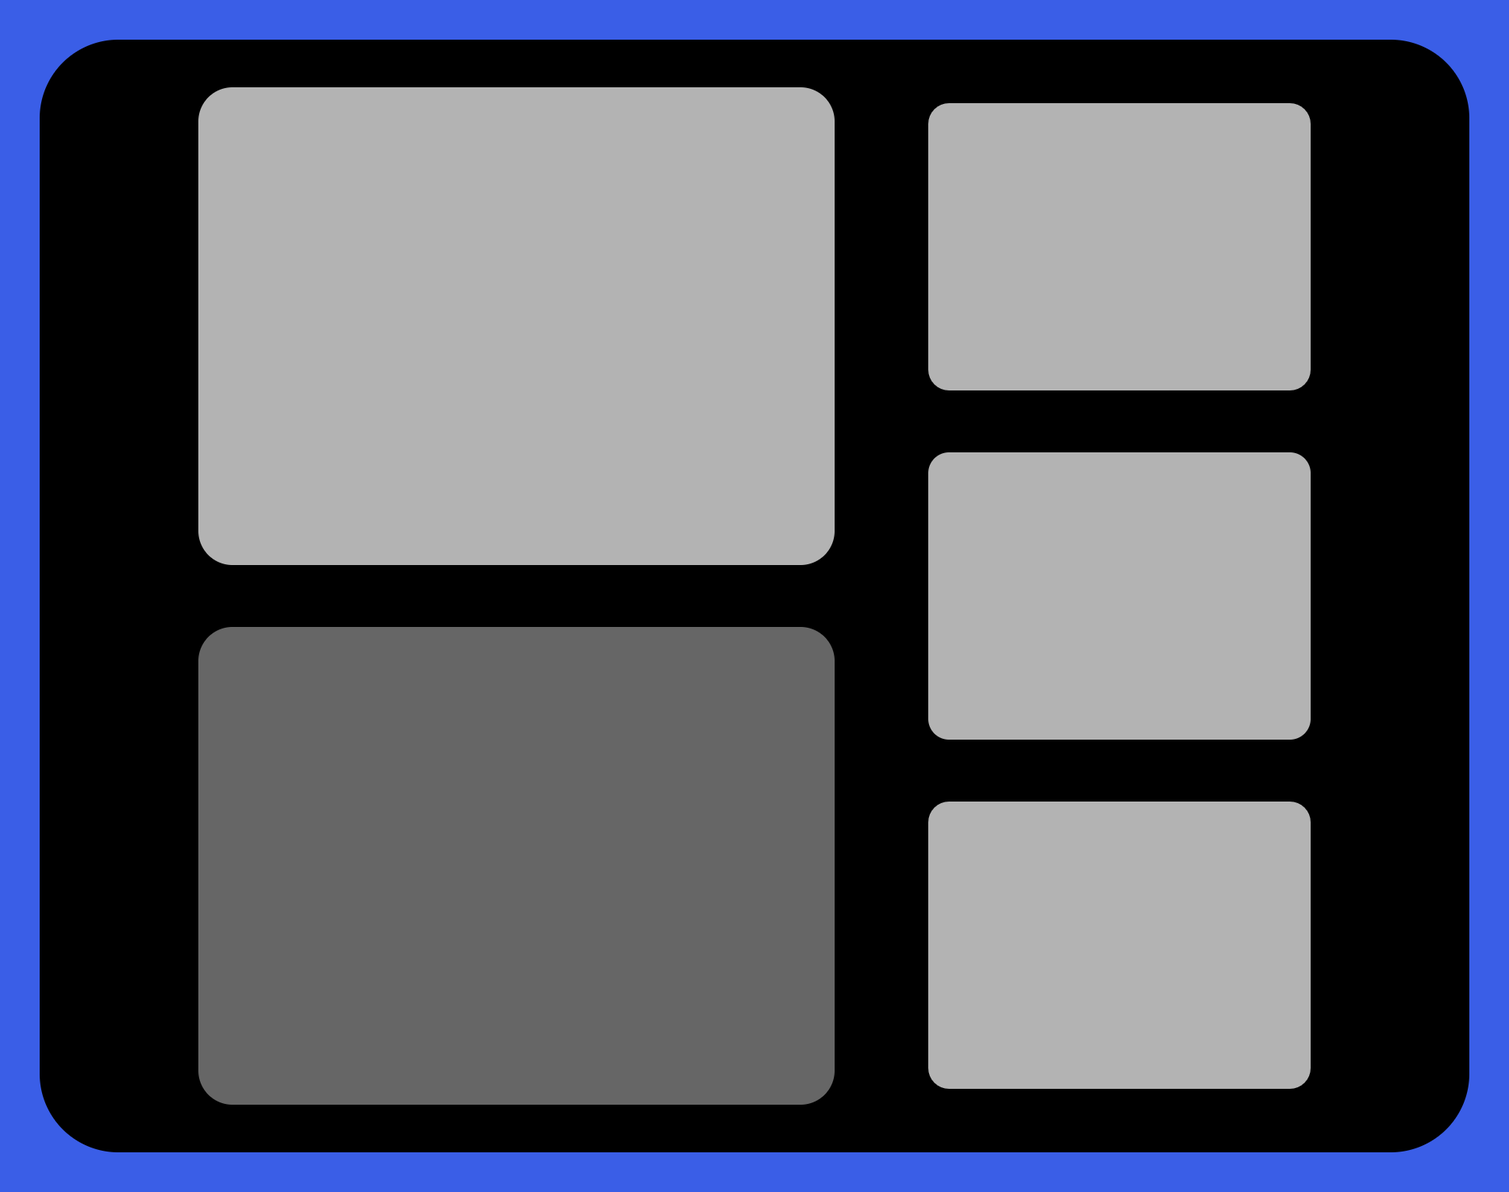
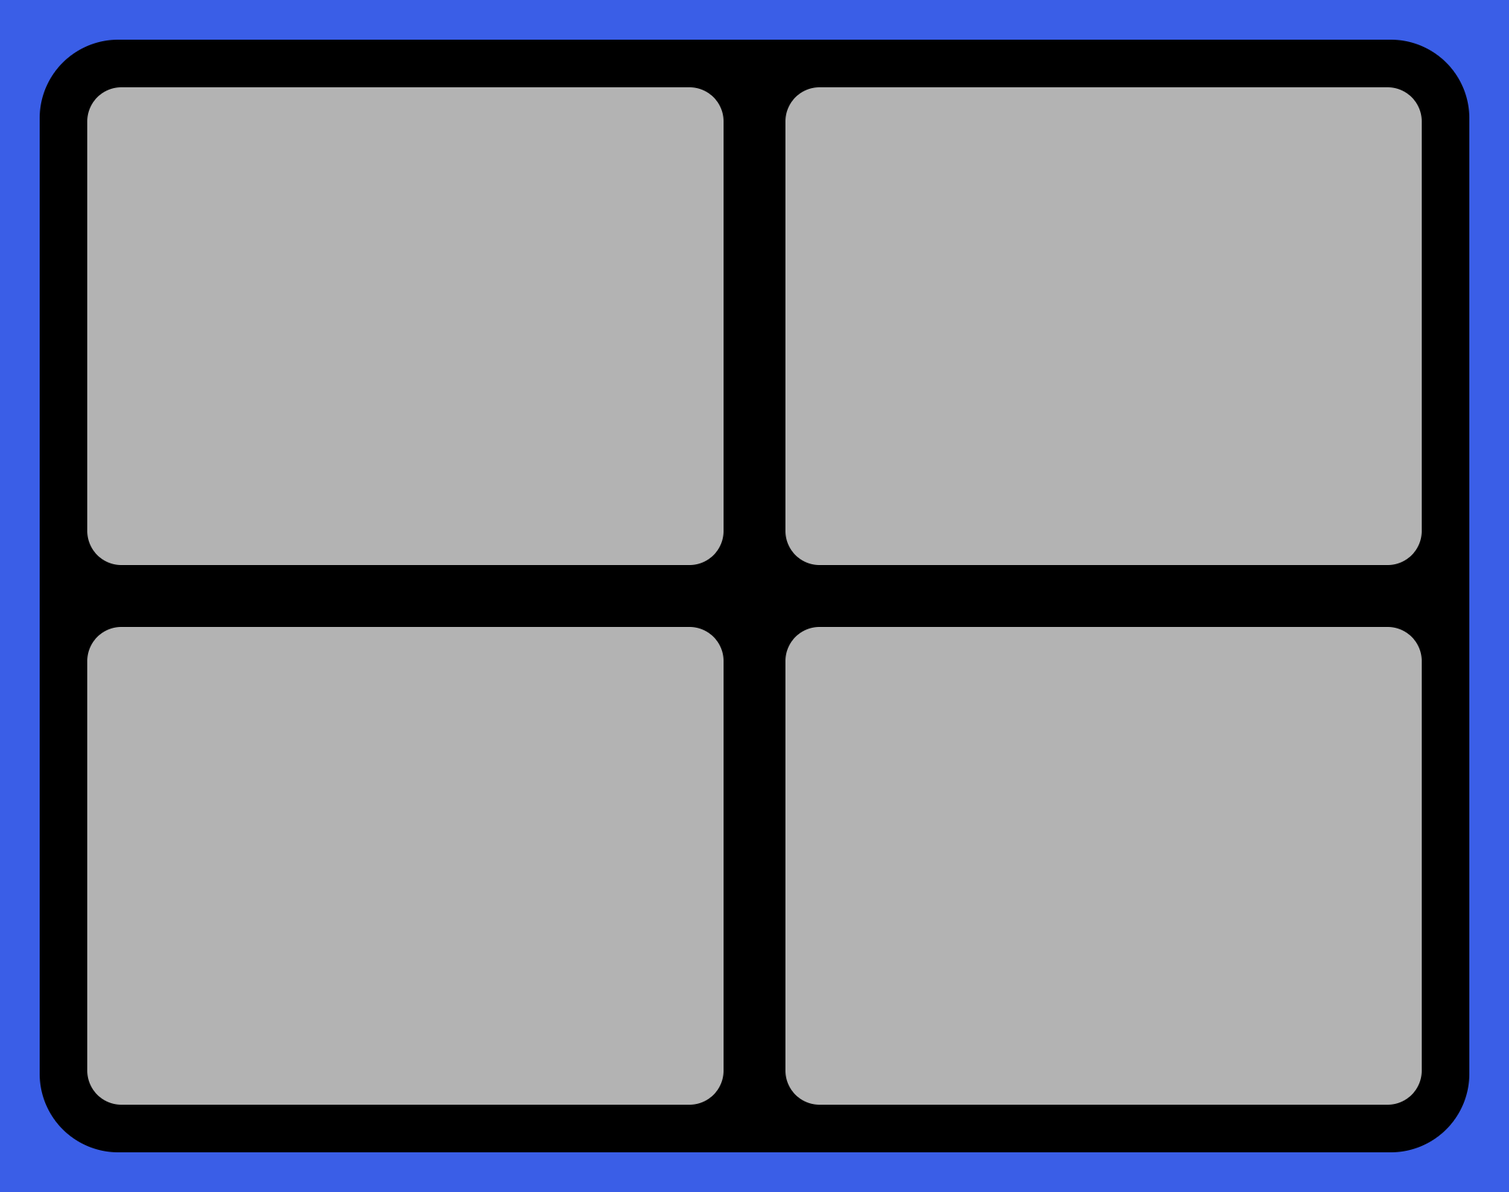
ウィンドウ配置を再検討・修正

diff --git a/MyStream.html b/MyStream.html
@@ -116,21 +116,15 @@
       <img src="select/03A.png" class="select" id="select03A" title="03A" onclick="selectL('03A')">
       <img src="select/03B.png" class="select" id="select03B" title="03B" onclick="selectL('03B')"><br>
       <img src="select/04A.png" class="select" id="select04A" title="04A" onclick="selectL('04A')">
-      <img src="select/04B.png" class="select" id="select04B" title="04B" onclick="selectL('04B')">
-      <img src="select/04C.png" class="select" id="select04C" title="04C" onclick="selectL('04C')"><br>
+      <img src="select/04B.png" class="select" id="select04B" title="04B" onclick="selectL('04B')"><br>
       <img src="select/05A.png" class="select" id="select05A" title="05A" onclick="selectL('05A')">
-      <img src="select/05B.png" class="select" id="select05B" title="05B" onclick="selectL('05B')">
-      <img src="select/05C.png" class="select" id="select05C" title="05C" onclick="selectL('05C')"><br>
-      <img src="select/06A.png" class="select" id="select06A" title="06A" onclick="selectL('06A')">
-      <img src="select/06B.png" class="select" id="select06B" title="06B" onclick="selectL('06B')">
-      <img src="select/06C.png" class="select" id="select06C" title="06C" onclick="selectL('06C')"><br>
-      <img src="select/07A.png" class="select" id="select07A" title="07A" onclick="selectL('07A')"><br>
-      <img src="select/08A.png" class="select" id="select08A" title="08A" onclick="selectL('08A')">
-      <img src="select/08B.png" class="select" id="select08B" title="08B" onclick="selectL('08B')"><br>
+      <img src="images/streamer01.jpg" class="select" id="select05B" title="05B" onclick="selectL('05B')"><br>
+      <img src="images/streamer01.jpg" class="select" id="select06A" title="06A" onclick="selectL('06A')"><br>
+      <img src="images/streamer01.jpg" class="select" id="select07A" title="07A" onclick="selectL('07A')"><br>
+      <img src="select/08A.png" class="select" id="select08A" title="08A" onclick="selectL('08A')"><br>
       <img src="select/09A.png" class="select" id="select09A" title="09A" onclick="selectL('09A')">
       <img src="select/09B.png" class="select" id="select09B" title="09B" onclick="selectL('09B')"><br>
       <img src="select/10A.png" class="select" id="select10A" title="10A" onclick="selectL('10A')"><br>
-      <img src="select/12A.png" class="select" id="select12A" title="12A" onclick="selectL('12A')"><br>
       <img src="select/16A.png" class="select" id="select16A" title="16A" onclick="selectL('16A')"><br>
       <button type="button" class="Check ButtonL" onclick="CheckStream()">配信チェック</button><br>
       <button type="button" class="Slide ButtonL" onclick="SlideWindow()">空窓スライド</button><br>
@@ -148,7 +142,6 @@
         .then(response => response.json())
         .then(jsonData => {
           channelData = jsonData; // ローカル変数にデータを格納
-          console.log(channelData)
           const iconArea = document.querySelector('.iconArea');
           channelData.channels.forEach(channel => {
             if (channel.No >= 1 && channel.No <= 38) {
@@ -160,7 +153,7 @@
               img.src = channel.Icon;
               img.className = 'icon';
               img.id = `icon${channel.No}`;
-              img.setAttribute('onclick', `openLink('${channel.No}')`);
+              img.setAttribute('onclick', `openLink('icon${channel.No}')`);
 
               div.appendChild(img);
               iconArea.appendChild(div);
@@ -256,259 +249,71 @@
       showAlert('更新情報', '特になし', 'noClose');
     }
     function selectL(Lay) {
-
       var current = new URL(window.location);
       current.searchParams.set("layout", Lay);
       window.history.replaceState('', '', current);
 
-      //全ての窓の余計なクラスを削除
       const all = ["w01", "w02", "w03", "w04", "w05", "w06", "w07", "w08", "w09", "w10", "w11", "w12", "w13", "w14", "w15", "w16"];
-      all.forEach((wNo, index) => {
-        if (document.getElementById(wNo).classList.contains('Non-Display') == true) {
-          document.getElementById(wNo).className = "story cleared";
-        } else if (document.getElementById(wNo).classList.contains('cleared') == true) {
-          document.getElementById(wNo).className = "story cleared";
+      all.forEach(wNo => {
+        const element = document.getElementById(wNo);
+        if (element.classList.contains('Non-Display') || element.classList.contains('cleared')) {
+          element.className = "story cleared";
         } else {
-          document.getElementById(wNo).className = "story";
+          element.className = "story";
         }
-        document.getElementById("ReplaceArea").className = "grid6R7C";
       });
 
-      let arr = [];
-      let now = [];
+      document.getElementById("ReplaceArea").className = "grid6R7C";
 
-      switch (Lay) {
-        case "01A"://6R7C_ok
-          document.getElementById("w01").classList.add("WE01", "VSE");
-          arr = ["w02", "w03", "w04", "w05", "w06", "w07", "w08", "w09", "w10", "w11", "w12", "w13", "w14", "w15", "w16"];
-          break;
-        case "01B"://6R7C_ok
-          document.getElementById("w01").classList.add("WD01C", "VSD", "CSD");
-          arr = ["w02", "w03", "w04", "w05", "w06", "w07", "w08", "w09", "w10", "w11", "w12", "w13", "w14", "w15", "w16"];
-          break;
-        case "02A"://6R7C_ok
+      const layoutConfig = {
+        "01A": { addClasses: [["w01", ["WE01", "VSE"]]], hideElements: ["w02", "w03", "w04", "w05", "w06", "w07", "w08", "w09", "w10", "w11", "w12", "w13", "w14", "w15", "w16"] },
+        "01B": { addClasses: [["w01", ["WD01C", "VSD", "CSD"]]], hideElements: ["w02", "w03", "w04", "w05", "w06", "w07", "w08", "w09", "w10", "w11", "w12", "w13", "w14", "w15", "w16"] },
+        "02A": { addClasses: [["w01", ["WC01C", "VSC", "CSC"]], ["w02", ["WC03C", "VSC", "CSC"]]], hideElements: ["w03", "w04", "w05", "w06", "w07", "w08", "w09", "w10", "w11", "w12", "w13", "w14", "w15", "w16"] },
+        "03A": { addClasses: [["w01", ["WB01C", "VSB", "CSB"]], ["w02", ["WB04C", "VSB", "CSB"]], ["w03", ["WB07C", "VSB", "CSB"]]], hideElements: ["w04", "w05", "w06", "w07", "w08", "w09", "w10", "w11", "w12", "w13", "w14", "w15", "w16"] },
+        "03B": { addClasses: [["w01", ["WC01C", "VSC", "CSC"]], ["w02", ["WC03", "VSC"]], ["w03", ["WC04", "VSC"]]], hideElements: ["w04", "w05", "w06", "w07", "w08", "w09", "w10", "w11", "w12", "w13", "w14", "w15", "w16"] },
+        "04A": { addClasses: [["w01", ["WA01C3", "VSA", "CSD"]], ["w02", ["WA05C3", "VSA", "CSD"]], ["w03", ["WA09C3", "VSA", "CSD"]], ["w04", ["WA13C3", "VSA", "CSD"]]], hideElements: ["w05", "w06", "w07", "w08", "w09", "w10", "w11", "w12", "w13", "w14", "w15", "w16"] },
+        "04B": { addClasses: [["w01", ["WC01", "VSC"]], ["w02", ["WC02", "VSC"]], ["w03", ["WC03", "VSC"]], ["w04", ["WC04", "VSC"]]], hideElements: ["w05", "w06", "w07", "w08", "w09", "w10", "w11", "w12", "w13", "w14", "w15", "w16"] },
+        "05A": { addClasses: [["w01", ["WB01C", "VSB", "CSB"]], ["w02", ["WB04C", "VSB", "CSB"]], ["w03", ["WB07", "VSB"]], ["w04", ["WB08", "VSB"]], ["w05", ["WB09", "VSB"]]], hideElements: ["w06", "w07", "w08", "w09", "w10", "w11", "w12", "w13", "w14", "w15", "w16"] },
+        "05B": { addClasses: [["w01", ["WC01C", "VSC", "CSC"]], ["w02", ["WA09C1", "VSA", "CSA"]], ["w03", ["WA11C1", "VSA", "CSA"]], ["w04", ["WA13C1", "VSA", "CSA"]], ["w05", ["WA15C1", "VSA", "CSA"]]], hideElements: ["w06", "w07", "w08", "w09", "w10", "w11", "w12", "w13", "w14", "w15", "w16"] },
+        "06A": { addClasses: [["w01", ["WC01", "VSC"]], ["w02", ["WC02", "VSC"]], ["w03", ["WA09C1", "VSA", "CSA"]], ["w04", ["WA11C1", "VSA", "CSA"]], ["w05", ["WA13C1", "VSA", "CSA"]], ["w06", ["WA15C1", "VSA", "CSA"]]], hideElements: ["w07", "w08", "w09", "w10", "w11", "w12", "w13", "w14", "w15", "w16"] },
+        "07A": { addClasses: [["w01", ["WB01C", "VSB", "CSB"]], ["w02", ["WB04", "VSB"]], ["w03", ["WB05", "VSB"]], ["w04", ["WB06", "VSB"]], ["w05", ["WB07", "VSB"]], ["w06", ["WB08", "VSB"]], ["w07", ["WB09", "VSB"]]], hideElements: ["w08", "w09", "w10", "w11", "w12", "w13", "w14", "w15", "w16"] },
+        "08A": { addClasses: [["w01", ["WA01C1", "VSA", "CSA"]], ["w02", ["WA03C1", "VSA", "CSA"]], ["w03", ["WA05C1", "VSA", "CSA"]], ["w04", ["WA07C1", "VSA", "CSA"]], ["w05", ["WA09C1", "VSA", "CSA"]], ["w06", ["WA11C1", "VSA", "CSA"]], ["w07", ["WA13C1", "VSA", "CSA"]], ["w08", ["WA15C1", "VSA", "CSA"]]], hideElements: ["w09", "w10", "w11", "w12", "w13", "w14", "w15", "w16"] },
+        "09A": { addClasses: [["w01", ["WC01C", "VSC", "CSC"]], ["w02", ["WA09", "VSA"]], ["w03", ["WA10", "VSA"]], ["w04", ["WA11", "VSA"]], ["w05", ["WA12", "VSA"]], ["w06", ["WA13", "VSA"]], ["w07", ["WA14", "VSA"]], ["w08", ["WA15", "VSA"]], ["w09", ["WA16", "VSA"]]], hideElements: ["w10", "w11", "w12", "w13", "w14", "w15", "w16"] },
+        "09B": { addClasses: [["w01", ["WB01", "VSB"]], ["w02", ["WB02", "VSB"]], ["w03", ["WB03", "VSB"]], ["w04", ["WB04", "VSB"]], ["w05", ["WB05", "VSB"]], ["w06", ["WB06", "VSB"]], ["w07", ["WB07", "VSB"]], ["w08", ["WB08", "VSB"]], ["w09", ["WB09", "VSB"]]], hideElements: ["w10", "w11", "w12", "w13", "w14", "w15", "w16"] },
+        "10A": { addClasses: [["w01", ["WC01", "VSC"]], ["w02", ["WC02", "VSC"]], ["w03", ["WA09", "VSA"]], ["w04", ["WA10", "VSA"]], ["w05", ["WA11", "VSA"]], ["w06", ["WA12", "VSA"]], ["w07", ["WA13", "VSA"]], ["w08", ["WA14", "VSA"]], ["w09", ["WA15", "VSA"]], ["w10", ["WA16", "VSA"]]], hideElements: ["w11", "w12", "w13", "w14", "w15", "w16"] },
+        "16A": { addClasses: all.map(wNo => [wNo, ["WA" + wNo.slice(-2), "VSA"]]), hideElements: [] }
+      };
 
-          document.getElementById("w01").classList.add("WC01C", "VSC", "CSC");
-          document.getElementById("w02").classList.add("WC03C", "VSC", "CSC");
-          arr = ["w03", "w04", "w05", "w06", "w07", "w08", "w09", "w10", "w11", "w12", "w13", "w14", "w15", "w16"];
-          break;
-        case "03A"://6R7C_ok
+      const config = layoutConfig[Lay] || { addClasses: [], hideElements: [] };
 
-          document.getElementById("w01").classList.add("WB01C", "VSB", "CSB");
-          document.getElementById("w02").classList.add("WB04C", "VSB", "CSB");
-          document.getElementById("w03").classList.add("WB07C", "VSB", "CSB");
-          arr = ["w04", "w05", "w06", "w07", "w08", "w09", "w10", "w11", "w12", "w13", "w14", "w15", "w16"];
-          break;
-        case "03B"://6R7C_ok
+      config.addClasses.forEach(([wNo, classes]) => {
+        document.getElementById(wNo).classList.add(...classes);
+      });
 
-          document.getElementById("w01").classList.add("WC01C", "VSC", "CSC");
-          document.getElementById("w02").classList.add("WC03", "VSC");
-          document.getElementById("w03").classList.add("WC04", "VSC");
-          arr = ["w04", "w05", "w06", "w07", "w08", "w09", "w10", "w11", "w12", "w13", "w14", "w15", "w16"];
-          break;
-        case "04A"://6R7C_ok
+      config.hideElements.forEach(wNo => {
+        const element = document.getElementById(wNo);
+        element.classList.remove("cleared");
+        element.classList.add("Non-Display");
+        const video = element.getElementsByClassName("video")[0];
+        video.src = "";
+        video.classList.add("no-content");
+        const chats = element.getElementsByClassName("chats")[0];
+        if (chats) {
+          chats.src = "";
+          chats.classList.add("no-content");
+        }
 
-          document.getElementById("w01").classList.add("WA01C3", "VSA", "CSD");
-          document.getElementById("w02").classList.add("WA05C3", "VSA", "CSD");
-          document.getElementById("w03").classList.add("WA09C3", "VSA", "CSD");
-          document.getElementById("w04").classList.add("WA13C3", "VSA", "CSD");
-          arr = ["w05", "w06", "w07", "w08", "w09", "w10", "w11", "w12", "w13", "w14", "w15", "w16"];
-          break;
-        case "04B"://6R7C_ok
-
-          document.getElementById("w01").classList.add("WC01C", "VSC", "CSC");
-          document.getElementById("w02").classList.add("WB07H", "VSB");
-          document.getElementById("w03").classList.add("WB08H", "VSB");
-          document.getElementById("w04").classList.add("WB09H", "VSB");
-          arr = ["w05", "w06", "w07", "w08", "w09", "w10", "w11", "w12", "w13", "w14", "w15", "w16"];
-          break;
-        case "04C"://6R7C_ok
-
-          document.getElementById("w01").classList.add("WC01", "VSC");
-          document.getElementById("w02").classList.add("WC02", "VSC");
-          document.getElementById("w03").classList.add("WC03", "VSC");
-          document.getElementById("w04").classList.add("WC04", "VSC");
-          arr = ["w05", "w06", "w07", "w08", "w09", "w10", "w11", "w12", "w13", "w14", "w15", "w16"];
-          break;
-        case "05A"://6R7C_ok
-
-          document.getElementById("w01").classList.add("WC01C", "VSC", "CSC");
-          document.getElementById("w02").classList.add("WA10", "VSA");
-          document.getElementById("w03").classList.add("WA11", "VSA");
-          document.getElementById("w04").classList.add("WA14", "VSA");
-          document.getElementById("w05").classList.add("WA15", "VSA");
-          arr = ["w06", "w07", "w08", "w09", "w10", "w11", "w12", "w13", "w14", "w15", "w16"];
-          break;
-        case "05B"://6R7C_ok
-
-          document.getElementById("w01").classList.add("WB01C", "VSB", "CSB");
-          document.getElementById("w02").classList.add("WB04C", "VSB", "CSB");
-          document.getElementById("w03").classList.add("WB07", "VSB");
-          document.getElementById("w04").classList.add("WB08", "VSB");
-          document.getElementById("w05").classList.add("WB09", "VSB");
-          arr = ["w06", "w07", "w08", "w09", "w10", "w11", "w12", "w13", "w14", "w15", "w16"];
-          break;
-        case "05C"://6R7C_ok
-
-          document.getElementById("w01").classList.add("WC01", "VSC");
-          document.getElementById("w02").classList.add("WC02", "VSC");
-          document.getElementById("w03").classList.add("WB07H", "VSB");
-          document.getElementById("w04").classList.add("WB08H", "VSB");
-          document.getElementById("w05").classList.add("WB09H", "VSB");
-          arr = ["w06", "w07", "w08", "w09", "w10", "w11", "w12", "w13", "w14", "w15", "w16"];
-          break;
-        case "06A"://6R7C_ok
-
-          document.getElementById("w01").classList.add("WC01", "VSC");
-          document.getElementById("w02").classList.add("WC02", "VSC");
-          document.getElementById("w03").classList.add("WA10", "VSA");
-          document.getElementById("w04").classList.add("WA11", "VSA");
-          document.getElementById("w05").classList.add("WA14", "VSA");
-          document.getElementById("w06").classList.add("WA15", "VSA");
-          arr = ["w07", "w08", "w09", "w10", "w11", "w12", "w13", "w14", "w15", "w16"];
-          break;
-        case "06B"://6R7C_ok?
-
-          document.getElementById("w01").classList.add("WB01C", "VSB", "CSB");
-          document.getElementById("w02").classList.add("WB04C", "VSB", "CSB");
-          document.getElementById("w03").classList.add("WA13", "VSA");
-          document.getElementById("w04").classList.add("WA14", "VSA");
-          document.getElementById("w05").classList.add("WA15", "VSA");
-          document.getElementById("w06").classList.add("WA16", "VSA");
-          arr = ["w07", "w08", "w09", "w10", "w11", "w12", "w13", "w14", "w15", "w16"];
-          break;
-        case "06C"://6R7C_ok
-
-          document.getElementById("w01").classList.add("WB01", "VSB");
-          document.getElementById("w02").classList.add("WB02", "VSB");
-          document.getElementById("w03").classList.add("WB04", "VSB");
-          document.getElementById("w04").classList.add("WB05", "VSB");
-          document.getElementById("w05").classList.add("WB07", "VSB");
-          document.getElementById("w06").classList.add("WB08", "VSB");
-          arr = ["w07", "w08", "w09", "w10", "w11", "w12", "w13", "w14", "w15", "w16"];
-          break;
-        case "07A"://6R7C_ok
-
-          document.getElementById("w01").classList.add("WC01C", "VSC", "CSC");
-          document.getElementById("w02").classList.add("WA09", "VSA");
-          document.getElementById("w03").classList.add("WA10", "VSA");
-          document.getElementById("w04").classList.add("WA11", "VSA");
-          document.getElementById("w05").classList.add("WA13", "VSA");
-          document.getElementById("w06").classList.add("WA14", "VSA");
-          document.getElementById("w07").classList.add("WA15", "VSA");
-          arr = ["w08", "w09", "w10", "w11", "w12", "w13", "w14", "w15", "w16"];
-          break;
-        case "08A"://6R7C_ok
-
-          document.getElementById("w01").classList.add("WC01", "VSC");
-          document.getElementById("w02").classList.add("WC02", "VSC");
-          document.getElementById("w03").classList.add("WA09", "VSA");
-          document.getElementById("w04").classList.add("WA10", "VSA");
-          document.getElementById("w05").classList.add("WA11", "VSA");
-          document.getElementById("w06").classList.add("WA13", "VSA");
-          document.getElementById("w07").classList.add("WA14", "VSA");
-          document.getElementById("w08").classList.add("WA15", "VSA");
-          arr = ["w09", "w10", "w11", "w12", "w13", "w14", "w15", "w16"];
-          break;
-        case "08B"://6R7C_ok
-          document.getElementById("w01").classList.add("WA01C1", "VSA", "CSA");
-          document.getElementById("w02").classList.add("WA03C1", "VSA", "CSA");
-          document.getElementById("w03").classList.add("WA05C1", "VSA", "CSA");
-          document.getElementById("w04").classList.add("WA07C1", "VSA", "CSA");
-          document.getElementById("w05").classList.add("WA09C1", "VSA", "CSA");
-          document.getElementById("w06").classList.add("WA11C1", "VSA", "CSA");
-          document.getElementById("w07").classList.add("WA13C1", "VSA", "CSA");
-          document.getElementById("w08").classList.add("WA15C1", "VSA", "CSA");
-          arr = ["w09", "w10", "w11", "w12", "w13", "w14", "w15", "w16"];
-          break;
-        case "09A"://6R7C_ok
-
-          document.getElementById("w01").classList.add("WC01C", "VSC", "CSC");
-          document.getElementById("w02").classList.add("WA09", "VSA");
-          document.getElementById("w03").classList.add("WA10", "VSA");
-          document.getElementById("w04").classList.add("WA11", "VSA");
-          document.getElementById("w05").classList.add("WA12", "VSA");
-          document.getElementById("w06").classList.add("WA13", "VSA");
-          document.getElementById("w07").classList.add("WA14", "VSA");
-          document.getElementById("w08").classList.add("WA15", "VSA");
-          document.getElementById("w09").classList.add("WA16", "VSA");
-          arr = ["w10", "w11", "w12", "w13", "w14", "w15", "w16"];
-          break;
-        case "09B"://6R7C_ok
-          now = ["01", "02", "03", "04", "05", "06", "07", "08", "09"];
-          now.forEach((wNo, index) => {
-            document.getElementById("w" + wNo).classList.add("WB" + wNo, "VSB");
-          });
-          arr = ["w10", "w11", "w12", "w13", "w14", "w15", "w16"];
-          break;
-        case "10A"://6R7C_ok
-
-          document.getElementById("w01").classList.add("WC01", "VSC");
-          document.getElementById("w02").classList.add("WC02", "VSC");
-          document.getElementById("w03").classList.add("WA09", "VSA");
-          document.getElementById("w04").classList.add("WA10", "VSA");
-          document.getElementById("w05").classList.add("WA11", "VSA");
-          document.getElementById("w06").classList.add("WA12", "VSA");
-          document.getElementById("w07").classList.add("WA13", "VSA");
-          document.getElementById("w08").classList.add("WA14", "VSA");
-          document.getElementById("w09").classList.add("WA15", "VSA");
-          document.getElementById("w10").classList.add("WA16", "VSA");
-          arr = ["w11", "w12", "w13", "w14", "w15", "w16"];
-          break;
-        case "12A"://6R7C_ok
-
-          document.getElementById("w01").classList.add("WA01", "VSA");
-          document.getElementById("w02").classList.add("WA02", "VSA");
-          document.getElementById("w03").classList.add("WA03", "VSA");
-          document.getElementById("w04").classList.add("WA05", "VSA");
-          document.getElementById("w05").classList.add("WA06", "VSA");
-          document.getElementById("w06").classList.add("WA07", "VSA");
-          document.getElementById("w07").classList.add("WA09", "VSA");
-          document.getElementById("w08").classList.add("WA10", "VSA");
-          document.getElementById("w09").classList.add("WA11", "VSA");
-          document.getElementById("w10").classList.add("WA13", "VSA");
-          document.getElementById("w11").classList.add("WA14", "VSA");
-          document.getElementById("w12").classList.add("WA15", "VSA");
-          arr = ["w13", "w14", "w15", "w16"];
-          break;
-        case "16A"://6R7C_ok
-          now = ["01", "02", "03", "04", "05", "06", "07", "08", "09", "10", "11", "12", "13", "14", "15", "16"];
-          now.forEach((wNo, index) => {
-            document.getElementById("w" + wNo).classList.add("WA" + wNo, "VSA");
-          });
-          arr = [];
-          break;
-        default:
-          now = [];
-          arr = [];
-      }
-
-      arr.forEach((wNo, index) => {
-        //再生を停止
-        document.getElementById(wNo).classList.remove("cleared");
-        document.getElementById(wNo).classList.add("Non-Display");
-        document.getElementById(wNo).getElementsByClassName("video")[0].src = "";
-        document.getElementById(wNo).getElementsByClassName("video")[0].classList.add("no-content");
-        try {
-          document.getElementById(wNo).getElementsByClassName("chats")[0].src = "";
-          document.getElementById(wNo).getElementsByClassName("chats")[0].classList.add("no-content");
-        } catch (e) { }
-
-        //再生停止したアイコンの枠を変更・ボタンを有効化・パラメータを削除
-        var current = new URL(window.location);
-        let iNo = current.searchParams.get(wNo);
-        if (iNo != null) {
-          if (iNo.indexOf('icon') != -1) {
-            document.getElementById(iNo).style.border = "solid 3px rgba(0,0,0,0.5)";
-            //document.getElementById(iNo).style.opacity = 1.0;
-          }
+        // アイコン枠の変更とボタンの有効化
+        const iNo = current.searchParams.get(wNo);
+        if (iNo && iNo.includes('icon')) {
+          document.getElementById(iNo).style.border = "solid 3px rgba(0,0,0,0.5)";
         }
         current.searchParams.delete(wNo);
-        window.history.replaceState('', '', current);
-
       });
 
+      window.history.replaceState('', '', current);
     }
+
     async function getLink(No) {
       var YID = '';
       var TID = '';
@@ -679,8 +484,7 @@
           return;
         } else if (text.indexOf('icon') != -1) {
           let key = text;
-          console.log("restartWindow", key)
-          let result = await getLink(key);
+          let result = await getLink(key.replace("icon", ""));
           type = result[0];
           text = result[1];
           document.getElementById(key).style.border = "solid 3px rgba(177,29,44,1)";
